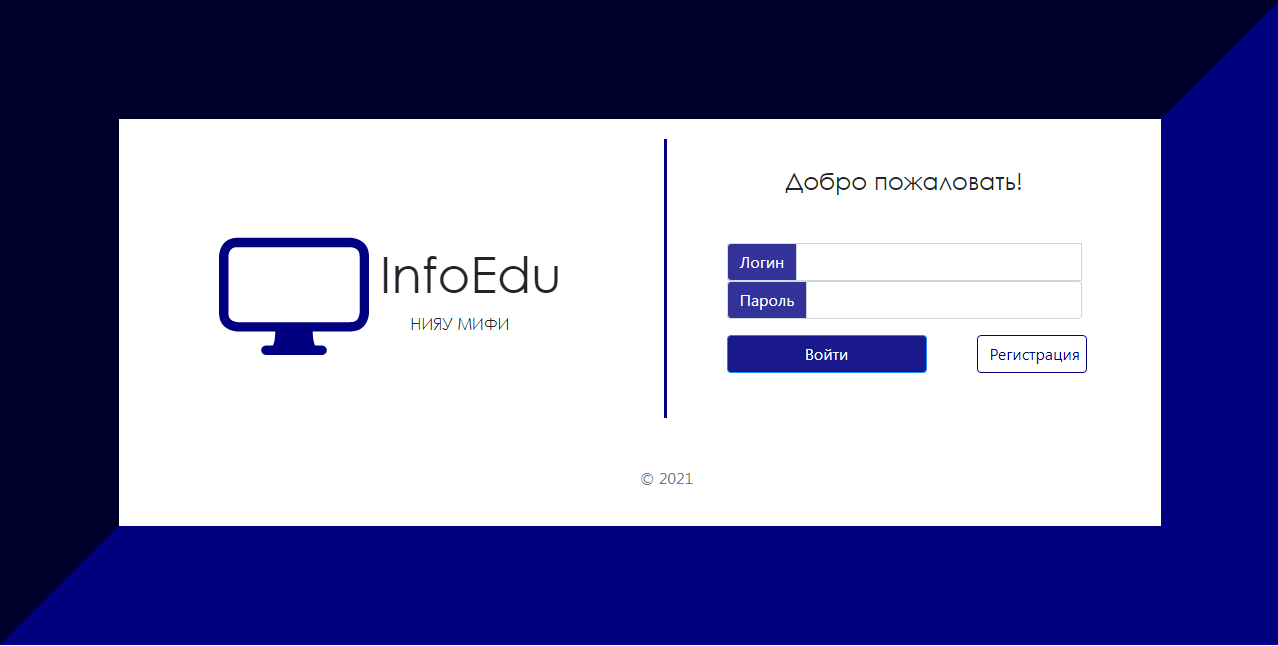
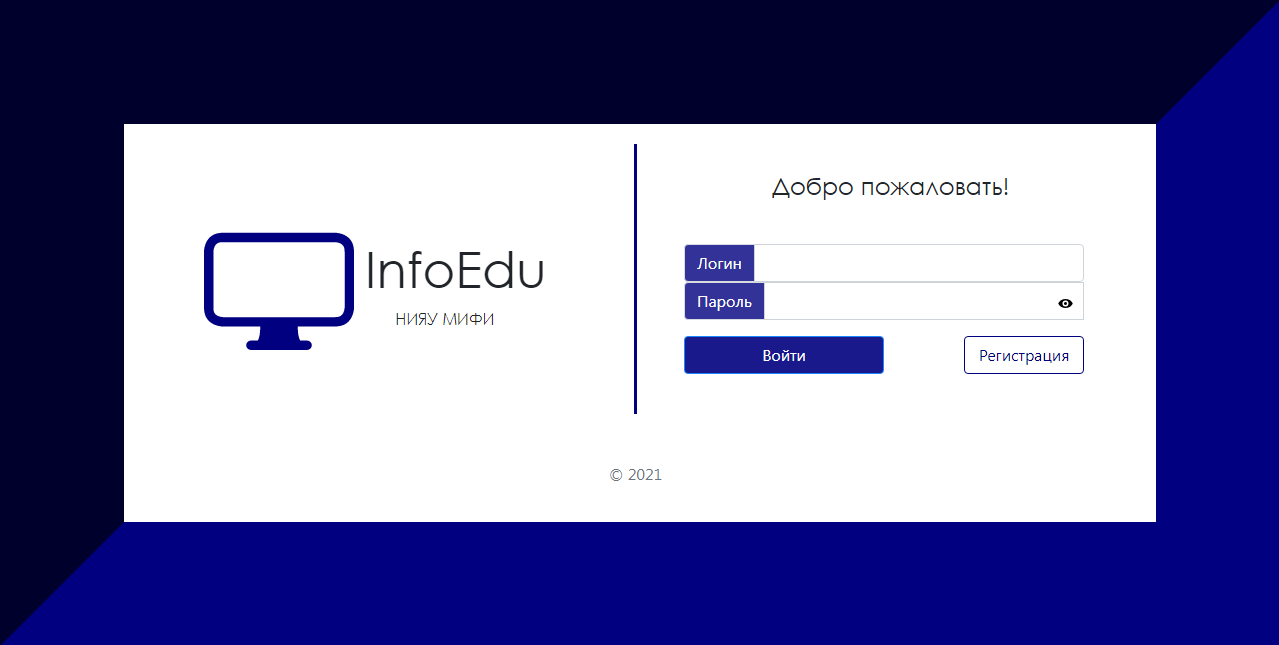
[*] main page

diff --git a/js/show_password.js b/js/show_password.js
@@ -1,0 +1,11 @@
+function show_hide_password(target){
+	var input = document.getElementById('password-input');
+	if (input.getAttribute('type') == 'password') {
+		target.classList.add('view');
+		input.setAttribute('type', 'text');
+	} else {
+		target.classList.remove('view');
+		input.setAttribute('type', 'password');
+	}
+	return false;
+}

diff --git a/index.php b/index.php
@@ -14,9 +14,9 @@
     <title>InfoEdu</title>
 </head>
 <body>
-<div style="border: 119px solid Navy; border-style:inset;  padding: 20px; background:white on white;">
+<div style="border: 124px solid Navy; border-style:inset;  padding: 20px 0 20px 0; background:white on white;">
   <div style="display: flex;">
-    <div style="display:flex; width:680px;margin-left: 80px;margin-top:80px">
+    <div style="display:flex; width:350px;margin-left: 80px;margin-top:70px">
       <div>
         <svg xmlns="http://www.w3.org/2000/svg" width=200" height="150" fill="navy" class="bi bi-display" viewBox="0 0 16 16">
           <path d="M0 4s0-2 2-2h12s2 0 2 2v6s0 2-2 2h-4c0 .667.083 1.167.25 1.5H11a.5.5 0 0 1 0 1H5a.5.5 0 0 1 0-1h.75c.167-.333.25-.833.25-1.5H2s-2 0-2-2V4zm1.398-.855a.758.758 0 0 0-.254.302A1.46 1.46 0 0 0 1 4.01V10c0 .325.078.502.145.602.07.105.17.188.302.254a1.464 1.464 0 0 0 .538.143L2.01 11H14c.325 0 .502-.078.602-.145a.758.758 0 0 0 .254-.302 1.464 1.464 0 0 0 .143-.538L15 9.99V4c0-.325-.078-.502-.145-.602a.757.757 0 0 0-.302-.254A1.46 1.46 0 0 0 13.99 3H2c-.325 0-.502.078-.602.145z"/>
@@ -27,9 +27,9 @@
         <div style="font-size: 16px;" align="center">НИЯУ МИФИ</div>
       </div>
     </div>
-  <div style="border-left: 3px solid navy; margin-left:100px">
-        <div class="container"">
-        <br><div style="font-size:24px; font-family: Century Gothic;" align="center">Добро пожаловать!</div>
+  <div style="border-left: 3px solid navy; margin-left:80px;">
+        <div class="container">
+        <br><div style="font-size:24px; font-family: Century Gothic; padding-left:30%;">Добро пожаловать!</div>
         <div style="color: red; margin-left:18%;">
         <?php 
         if ($_SESSION['nous'] == 1){
@@ -38,46 +38,61 @@
         }
         ?>
         </div>
-        <form style="margin:10%" action="scripts/auth.php" method="GET">
+        <form style="margin:10% 0 10% 8%; width:400px" action="scripts/auth.php" method="GET">
           <div class="input-group md-5">
             <div class="input-group-prepend">
               <span style="color:white; background:navy; opacity:80%"" class="input-group-text" id="login">Логин</span>
             </div>
-            <input type="text" class="form-control" name="login" aria-describedby="login" required
+            <input type="text" class="form-control" name="login" aria-describedby="login" required>
           </div>
           <div class="input-group mb-3">
             <div class="input-group-prepend">
               <span style="color:white; background:navy; opacity:80%" class="input-group-text" id="pass">Пароль</span>
             </div>
-            <input type="password" class="form-control" name="pass" aria-describedby="pass" required>
+            <!-- <div class="password"> -->
+              <input type="password" id="password-input" class="form-control" width="100%" name="pass" aria-describedby="pass" required>
+              <a href="#" class="password-control" onclick="return show_hide_password(this);"></a>
+            <!-- </div> -->
           </div>
-          <div style="display: flex;">
+          <div style="display: flex; justify-content:space-between;">
             <button class="btn btn-primary" type="submit" style=" width:200px;background:navy; opacity:90%">Войти</button>
-            <div class="btn btn_reg"><a href="regist/regist.php">Регистрация</a></div>
+            <a class="btn btn_reg" href="regist/regist.php">Регистрация</a>
           </div>
         </form>
     </div>
       </div>
   </div>
+  <p class="mt-5 mb-3 text-muted" style="padding-left: 47%;">© 2021</p>
 </div>
-<p class="mt-5 mb-3 text-muted" style="padding-left: 50%;">© 2021</p>
+<script src="./js/show_password.js"></script>
 </body>
 <style>
   .btn_reg{
     margin-left:50px; 
-    width:110px;
+    width:120px;
     border: 1px solid navy;
-  }
-  .btn_reg a{
     color:navy; 
     text-decoration: none;
   }
-  .btn_reg a:hover{
-    color:white;
-  }
   .btn_reg:hover{
+    color:white;
     background-color: navy;
-    cursor: pointer;
   }
+  .password {
+	  position: relative;
+  }
+.password-control {
+	position: absolute;
+	top: 14px;
+	right: 6px;
+	display: inline-block;
+	width: 20px;
+	height: 15px;
+  z-index: 100;
+  background: url(https://snipp.ru/demo/495/view.svg) 0 0 no-repeat;
+}
+.password-control.view {
+	background: url(https://snipp.ru/demo/495/no-view.svg) 0 0 no-repeat;
+}
 </style>
 </html>
